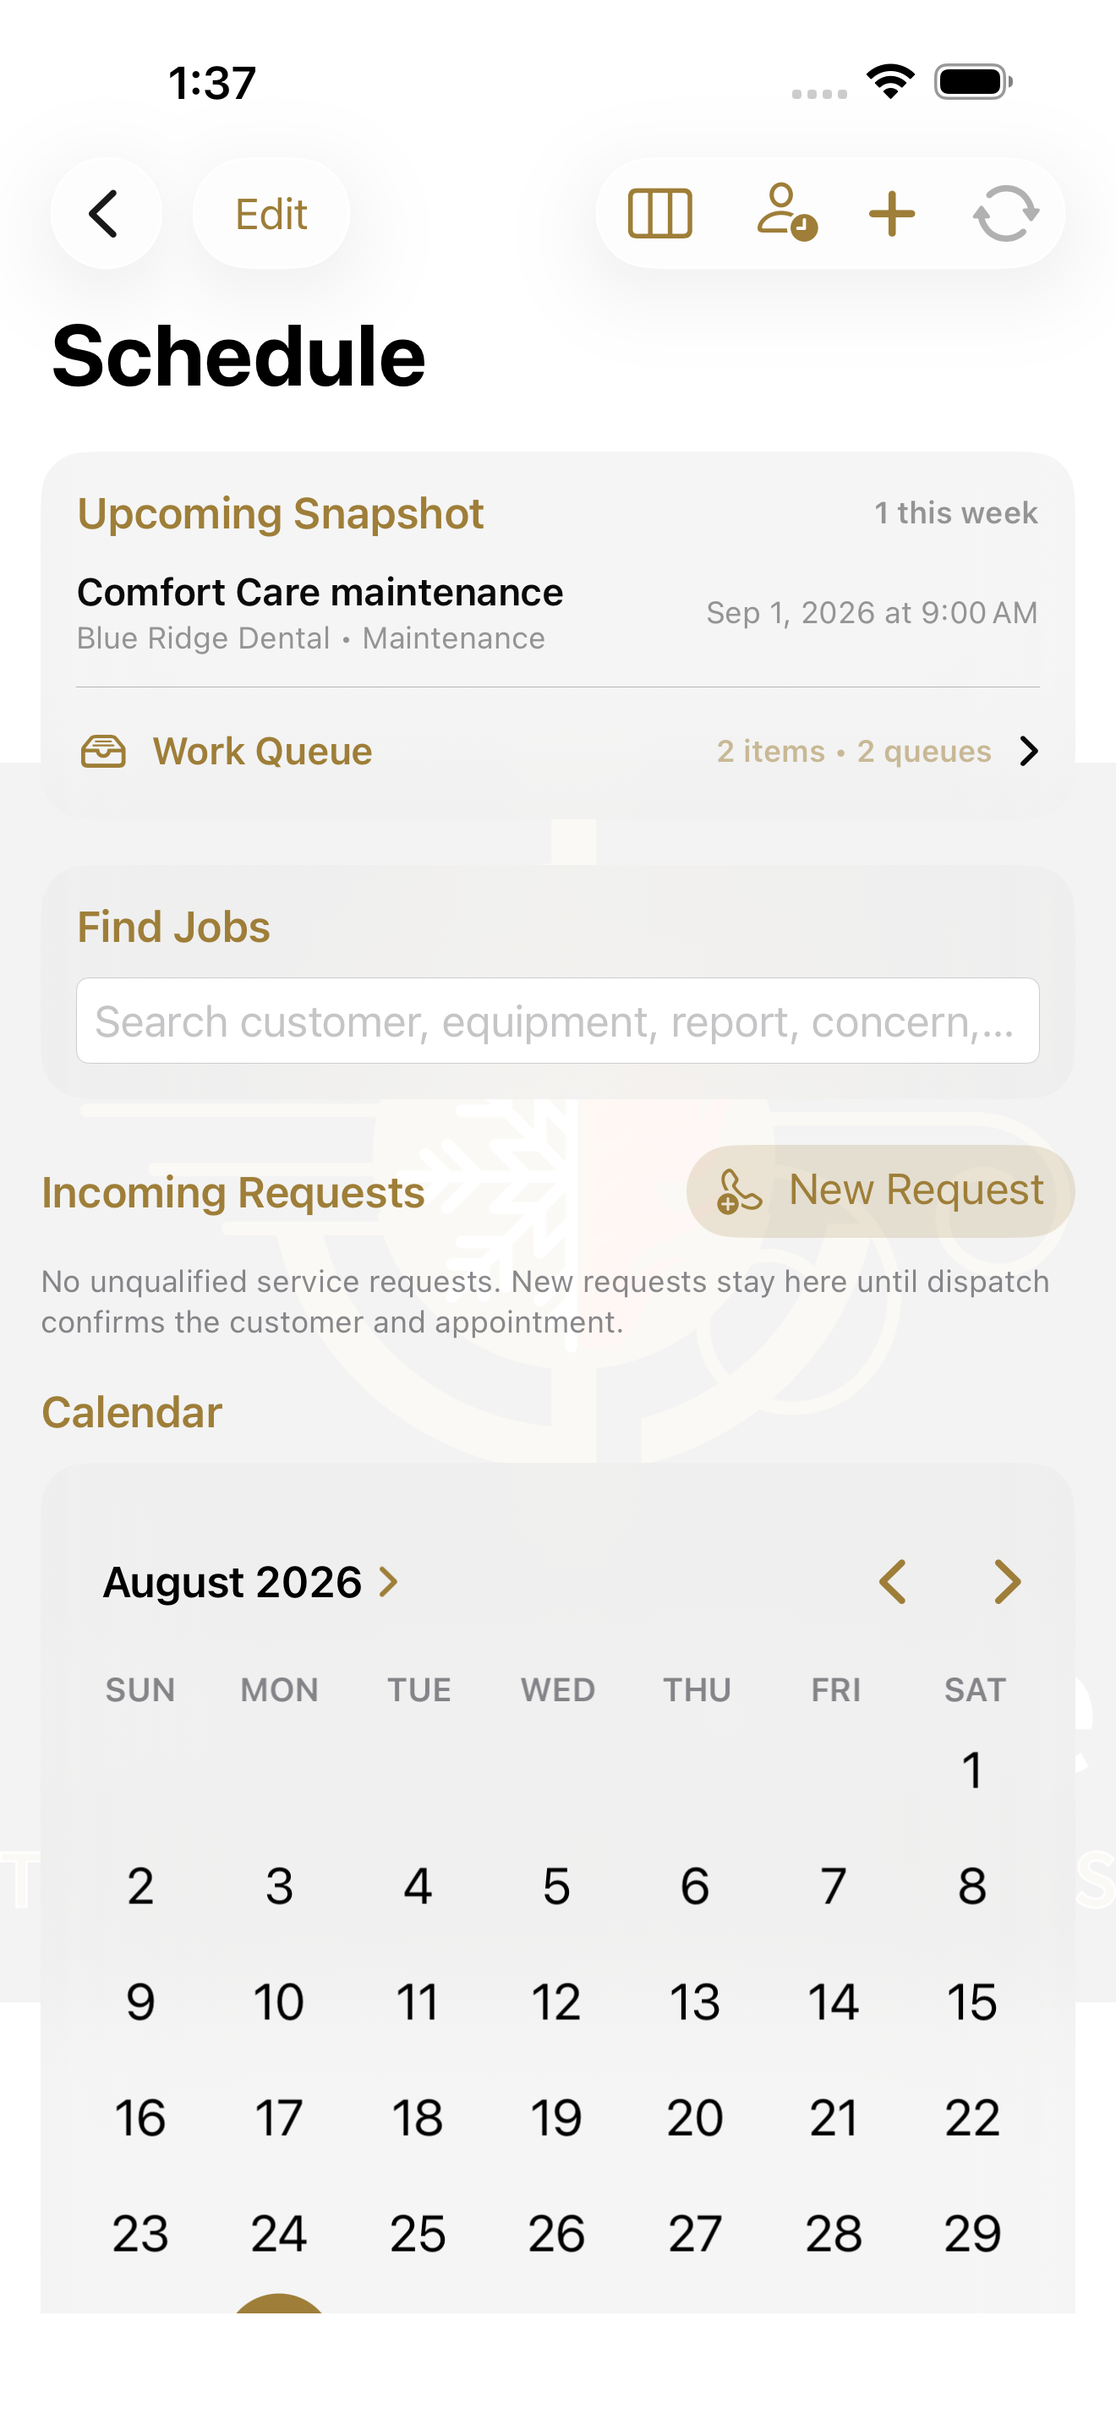
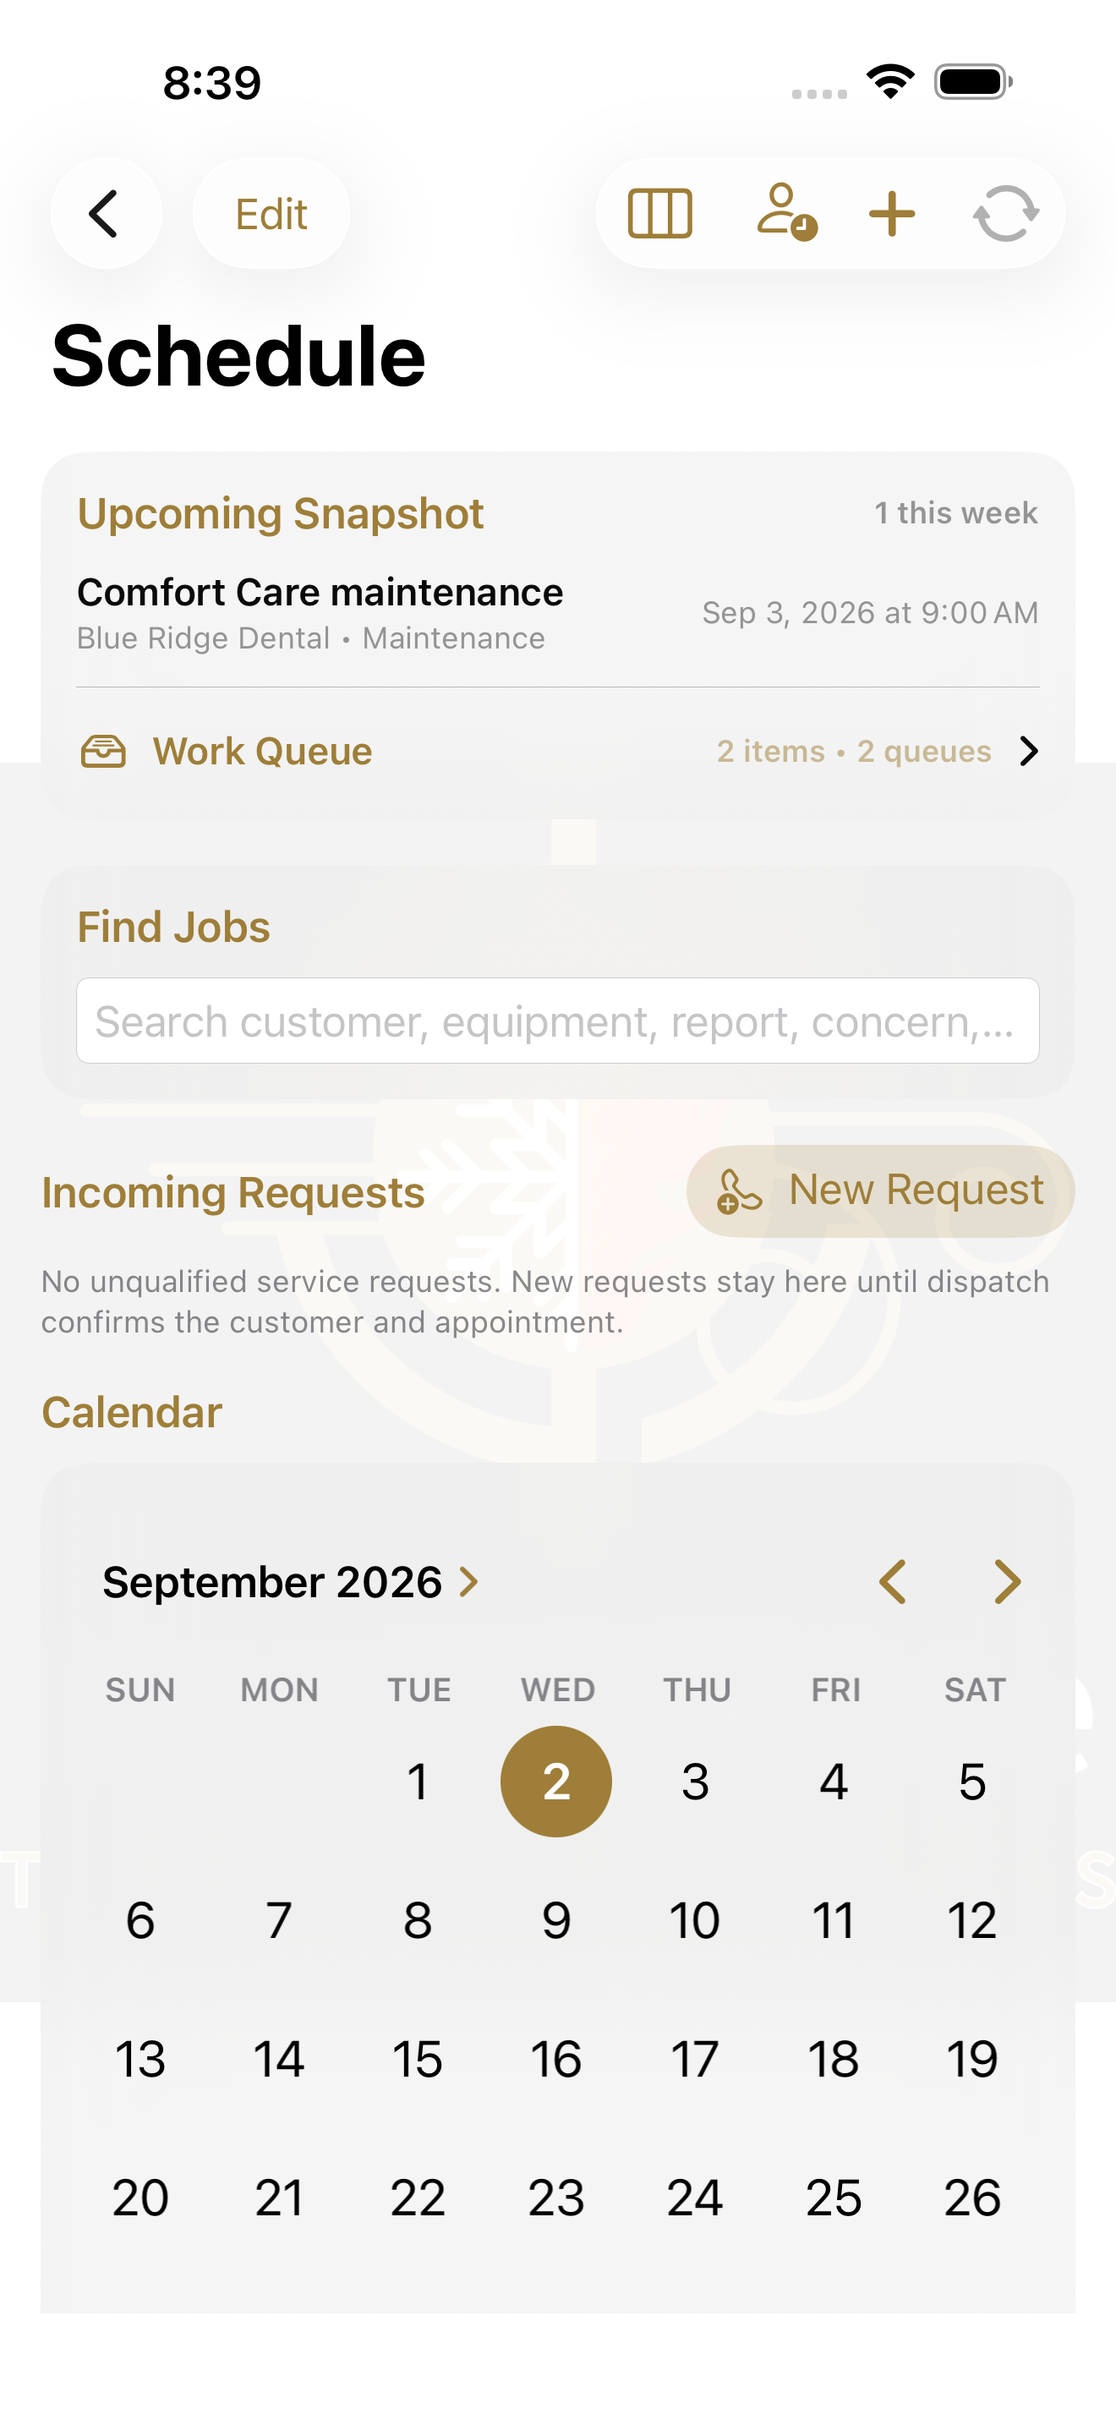
Refresh current App Store screenshots

diff --git a/RELEASE_READINESS.md b/RELEASE_READINESS.md
@@ -4,11 +4,11 @@ Last reviewed: 2026-09-02
 
 ## Current result
 
-Build `1.0 (2026090204)` is the exact-source primary iPad/Mac release candidate at source commit `9e1999eb7d357fb28631511176e7c51778ffc3b4`. The complete sequential iPad UI target now passes **104/104 logical tests** with **107/107 device executions**, zero failures, skips, or expected failures, on the iPad Pro 13-inch (M5) Simulator with iOS 26.5. The Settings action for reusable service, repair, replacement, and maintenance forms is a semantic labeled button, and its UI check waits for real form-manager content before asserting the navigation title. **Add Work Log** and **Create/Review Work Summary** remain above the append-only work history, keeping repeated technician entry reachable as the card grows. The two corrected workflows also pass together **2/2** before the broad run. The complete run now includes the post-job review-consent journey: the review draft is absent when the customer has not allowed marketing email and appears only after an administrator explicitly enables that consent; the test stops before opening Mail or Gmail, sends nothing, and retains an account-identity-free screenshot. The six App Store captures and the review-consent capture were visually inspected from the broad result; their sidebar footers show only the role and no signed-in account email. The four adjacent deterministic review/referral checks also pass **4/4**, covering job eligibility, confirmed communication activity, retained referral qualification, and request-cohort conversion/revenue reporting. Evidence is retained as `/Users/gunnaire/Downloads/GunnAire Ops Releases/2026-09-02/GunnAire Ops 1.0 (2026090204 iPad UI Broad 104 Pass).xcresult`, `/Users/gunnaire/Downloads/GunnAire Ops Releases/2026-09-02/GunnAire Ops 1.0 (2026090204 iPad Navigation Work Log Focused 2).xcresult`, `/Users/gunnaire/Downloads/GunnAire Ops Releases/2026-09-02/GunnAire Ops 1.0 (2026090204 Review Consent UI).xcresult`, and `/Users/gunnaire/Downloads/GunnAire Ops Releases/2026-09-02/GunnAire Ops 1.0 (2026090204 Review Referral Logic 4).xcresult`.
+Build `1.0 (2026090204)` is the exact-source primary iPad/Mac release candidate at source commit `9e1999eb7d357fb28631511176e7c51778ffc3b4`. The complete sequential iPad UI target now passes **104/104 logical tests** with **107/107 device executions**, zero failures, skips, or expected failures, on the iPad Pro 13-inch (M5) Simulator with iOS 26.5. The Settings action for reusable service, repair, replacement, and maintenance forms is a semantic labeled button, and its UI check waits for real form-manager content before asserting the navigation title. **Add Work Log** and **Create/Review Work Summary** remain above the append-only work history, keeping repeated technician entry reachable as the card grows. The two corrected workflows also pass together **2/2** before the broad run. The complete run now includes the post-job review-consent journey: the review draft is absent when the customer has not allowed marketing email and appears only after an administrator explicitly enables that consent; the test stops before opening Mail or Gmail, sends nothing, and retains an account-identity-free screenshot. The six iPad App Store captures and the review-consent capture were visually inspected from the broad result; a current iPhone 17 Pro Max capture workflow also passes **1/1**. All twelve checked-in App Store images passed privacy, content, dimension, opacity, and unobscured-layout review; none exposes the signed-in account email or sidebar identity. The four adjacent deterministic review/referral checks also pass **4/4**, covering job eligibility, confirmed communication activity, retained referral qualification, and request-cohort conversion/revenue reporting. Evidence is retained as `/Users/gunnaire/Downloads/GunnAire Ops Releases/2026-09-02/GunnAire Ops 1.0 (2026090204 iPad UI Broad 104 Pass).xcresult`, `/Users/gunnaire/Downloads/GunnAire Ops Releases/2026-09-02/GunnAire Ops 1.0 (2026090204 iPhone App Store Screenshots).xcresult`, `/Users/gunnaire/Downloads/GunnAire Ops Releases/2026-09-02/GunnAire Ops 1.0 (2026090204 iPad Navigation Work Log Focused 2).xcresult`, `/Users/gunnaire/Downloads/GunnAire Ops Releases/2026-09-02/GunnAire Ops 1.0 (2026090204 Review Consent UI).xcresult`, and `/Users/gunnaire/Downloads/GunnAire Ops Releases/2026-09-02/GunnAire Ops 1.0 (2026090204 Review Referral Logic 4).xcresult`.
 
[1 lines of base64/hex data omitted]
 
[2 lines of base64/hex data omitted]
 
 This remains a development-signed candidate, not a production release. Build `2026090204` is not installed on a physical iPad or iPhone; the paired iPad is registered but unavailable; Apple Distribution and separate Mac distribution credentials are unavailable; Production CloudKit is still v15 while the reviewed Development export is v22; production remains backend `.16`; backend source `.17` is not deployed; and signed QBO, Google, APNs, payment, financing, supplier, role, accessibility, Handoff, and conflict acceptance remain external gates.
 
@@ -362,9 +362,11 @@ explicit owner authorization through 2026-08-27:
   content, dimension, and no-alpha visual QA. They have not been uploaded to
   App Store Connect.
 
-- On 2026-08-31, the six current iPad and six current iPhone assets were
-  regenerated from focused current-source screenshot fixtures that each passed
-  1/1 on iOS 26.5. The capture assertion rejects an exposed signed-in sidebar
+- On 2026-09-02, the six current iPad and six current iPhone assets were
+  regenerated from current-source screenshot fixtures on iOS 26.5. The iPad
+  captures came from the complete **104/104 logical-test, 107/107-execution**
+  result, and the iPhone capture workflow independently passed **1/1**. The
+  capture assertion rejects an exposed signed-in sidebar
   identity, verifies compact Edit/QR/More equipment actions with lifecycle and
   delete actions hidden in the closed menu, and waits for any SpringBoard
   notification banner to clear before attaching an image. Normal authenticated

diff --git a/COMPLETION_EVIDENCE_MATRIX.md b/COMPLETION_EVIDENCE_MATRIX.md
@@ -8,7 +8,7 @@ and covered by the listed source/tests or build. **External gate** means the
 code cannot prove production readiness because it requires an account owner,
 provider contract, signed device, or deployed service.
 
[2 lines of base64/hex data omitted]
 
 Current Apple portal evidence: Safari is authenticated to the account team and the explicit `com.gunnaire.businesssuite` App ID shows Associated Domains, iCloud with CloudKit, Push Notifications, and Sign in with Apple enabled; Sign in with Apple is the primary App ID. Maps, Mail, and ordinary Messages compose/share behavior do not require enabling their unrelated specialized App ID services. No Apple setting was changed, and Chrome was not used.
 
@@ -241,7 +241,7 @@ the Apple notification route rejects malformed input with HTTP 400 and the QBO c
 
 | Check | Evidence | Result |
 | --- | --- | --- |
-| Current build `2026090204` complete iPad UI regression | `/Users/gunnaire/Downloads/GunnAire Ops Releases/2026-09-02/GunnAire Ops 1.0 (2026090204 iPad UI Broad 104 Pass).xcresult`. | The complete sequential target passes **104/104 logical tests** with **107/107 device executions**, zero failures, skips, or expected failures, on iPad Pro 13-inch (M5), iOS 26.5. This supersedes the 103-logical-test broad result by incorporating the consent-gated post-job review journey. The six App Store captures and the review-consent capture were exported and visually inspected; each omits the signed-in account identity from the sidebar footer, and the review flow stops before opening Mail/Gmail or sending a message. No browser, provider call, customer message, production data, or account setting was used or changed. |
+| Current build `2026090204` complete iPad UI regression and App Store captures | `/Users/gunnaire/Downloads/GunnAire Ops Releases/2026-09-02/GunnAire Ops 1.0 (2026090204 iPad UI Broad 104 Pass).xcresult` and `/Users/gunnaire/Downloads/GunnAire Ops Releases/2026-09-02/GunnAire Ops 1.0 (2026090204 iPhone App Store Screenshots).xcresult`. | The complete sequential target passes **104/104 logical tests** with **107/107 device executions**, zero failures, skips, or expected failures, on iPad Pro 13-inch (M5), iOS 26.5. This supersedes the 103-logical-test broad result by incorporating the consent-gated post-job review journey. Its six App Store captures and the review-consent capture were exported and visually inspected; the current iPhone 17 Pro Max, iOS 26.5 capture workflow independently passes **1/1**. All twelve checked-in App Store images omit the signed-in account identity and pass content, dimension, opacity, and unobscured-layout review. The review flow stops before opening Mail/Gmail or sending a message. No browser, provider call, customer message, production data, or account setting was used or changed. |
[1 lines of base64/hex data omitted]
 | Current-source iPad/Mac-to-iPhone field-payment Handoff | `/private/tmp/GunnAireOps-mac-handoff-final-ipad-2026083002.xcresult`, `/private/tmp/GunnAireOps-mac-handoff-final-iphone-ui-2026083001.xcresult`, `/private/tmp/GunnAireOps-mac-handoff-final-mac-build-2026083003.xcresult`, and preceding Mac baseline `/private/tmp/GunnAireOps-mac-handoff-final-mac-2026083001.xcresult`. | Exact current iPad logic passes **604/604**; the exact current iPhone prompt, authorized invoice, QBO identifier, and verified Intuit app-link journey passes **1/1**; exact current Mac app/test products build-for-testing with zero recorded issues; and the immediately preceding Mac source passed **604/604**. The handoff contains only the invoice UUID, replaces/invalidates prior state, expires after 30 minutes, exposes explicit cancellation, and reauthorizes on receipt. Two current Mac unit launches hit the local Xcode 26.6 `testmanagerd` timeout and two Catalyst UI runs stalled, so a Mac restart/current-source rerun and signed physical Mac/iPhone acceptance remain required. |
 | QBO customer-invoice idempotency and complete-line payment-preparation snapshot | `/private/tmp/GunnAireOps-invoice-lineage-ipad-2026083003.xcresult` and `/private/tmp/GunnAireOps-invoice-lineage-mac-2026083003.xcresult`; local backend regression on 2026-08-30. | The exact invoice-publication snapshot passes **604/604** on iPad and Mac Catalyst with zero failures or skips; backend passes **69/69**. Coverage proves the bounded stable invoice marker, deterministic 47-character create request ID, unique remote recovery, duplicate-marker rejection, immutable catalog line quantities/prices/tax/equipment context, and fail-closed mapping/review behavior. Job Billing, Admin retry, and payment preparation all reconcile before create; payment preparation no longer posts one generic fallback line. No live QBO write, payment, backend/schema change, or production-data mutation occurred. |

diff --git a/CAPABILITY_AUDIT.md b/CAPABILITY_AUDIT.md
@@ -2,7 +2,7 @@
 
 This audit compares GunnAire Ops with the practical operating capabilities described by ten leading field-service suites: ServiceTitan, Housecall Pro, FieldPulse, FieldEdge, Jobber, Workiz, Service Fusion, Simpro, ServiceM8, and ServiceTrade. BuildOps was also consulted for commercial-HVAC workflow coverage. It distinguishes implemented workflows from vendor- or provider-dependent capabilities that cannot be represented honestly as live until the business has credentials, contracts, and production approval.
 
[2 lines of base64/hex data omitted]
 
 Safari-only portal inspection confirms the explicit `com.gunnaire.businesssuite` identifier is enabled for Associated Domains, iCloud/CloudKit, Push Notifications, and primary Sign in with Apple. Maps, Mail, and ordinary Messages sharing are already available through the system frameworks used by the app and do not justify enabling Apple’s separate specialized App ID services. No Apple account setting was changed and Chrome was not used.
 
@@ -154,7 +154,7 @@ Current differentiators and constraints are explicit:
 - Customer email is now a typed, durable lifecycle rather than an optimistic history note. General messages, estimate follow-ups, payment reminders, appointment confirmations, en-route/arrival notices, work-in-progress updates, service follow-ups, maintenance visit/renewal reminders, post-job review requests, receipts, and customer documents retain workflow/template version, authenticated actor, consent snapshot, customer/job/estimate/invoice/agreement links, attachments, sent/failed/suppressed state, safe provider detail, and confirmed-delivery time. Gmail preflight rejects missing or mismatched context and consent violations; only a confirmed provider response applies the workflow's operational effect. Cancelling a draft, using the unobservable `mailto:` fallback, a provider error, a paid invoice, or mismatched record context makes no operational change. Failed backend evidence remains locally visible and retryable without resending the customer email. Maintenance reminder drafts no longer activate an agreement merely because a draft was opened.
 - Opted-in customers can receive staff-reviewed operational appointment texts through Apple's native Messages composer on a capable iPhone or iPad. The draft includes appointment timing and service type but excludes the address and financial details. Cancellation records nothing, failed sends retain failed evidence, and only the composer's `sent` result records sent evidence. Phone, consent, job/workflow, and the final recipient list are rechecked before any job-history effect; changed-recipient sends are audited without applying workflow state. This is not automated SMS and the app does not claim carrier delivery confirmation.
 
-- App Store screenshot fixtures apply a narrowly scoped privacy policy: the signed-in sidebar identity is omitted only while deterministic store captures run. The capture helper checks for that identity before attaching each image, while a separate authenticated-admin UI assertion proves the normal app still presents account context. On 2026-08-31, the six 13-inch iPad and six 6.9-inch iPhone images were regenerated from focused current-source workflows that each passed 1/1. Customer Systems asserts the compact Edit, QR, and More actions while lifecycle/delete actions remain hidden in the closed menu, and the capture helper waits for a SpringBoard notification banner to clear rather than retaining an obscured image. The deterministic payment fixture also suppresses its automatic shared-server refreshes so capture never contacts the live backend or exposes a missing-session error; normal Payments behavior is unchanged. All twelve retained PNGs were visually inspected and mechanically verified for the required dimensions and opaque RGB format; the images reflect the collapsed Schedule Work Queue and use fictional business data.
+- App Store screenshot fixtures apply a narrowly scoped privacy policy: the signed-in sidebar identity is omitted only while deterministic store captures run. The capture helper checks for that identity before attaching each image, while a separate authenticated-admin UI assertion proves the normal app still presents account context. On 2026-09-02, the six 13-inch iPad images were regenerated from the complete 104-logical-test result and the six 6.9-inch iPhone images from a focused current-source workflow that passed 1/1. Customer Systems asserts the compact Edit, QR, and More actions while lifecycle/delete actions remain hidden in the closed menu, and the capture helper waits for a SpringBoard notification banner to clear rather than retaining an obscured image. The deterministic payment fixture also suppresses its automatic shared-server refreshes so capture never contacts the live backend or exposes a missing-session error; normal Payments behavior is unchanged. All twelve retained PNGs were visually inspected and mechanically verified for the required dimensions and opaque RGB format; the images reflect the current interface, omit the signed-in account email and sidebar identity, and use fictional business data.
 
 ## Implemented operational suite
 

diff --git a/AppStoreAssets/README.md b/AppStoreAssets/README.md
@@ -65,11 +65,19 @@ The order is intentional:
 
 ## Current-source verification
 
-Both focused capture workflows passed on 2026-08-31: 1/1 on an iPad Pro
-13-inch (M5) simulator and 1/1 on an iPhone 17 Pro Max simulator, each running
-iOS 26.5. The twelve exported attachments were mapped by their manifests,
-visually inspected, and mechanically verified for the expected dimensions and
-an opaque RGB pixel format before replacing this retained set.
+The current iPad captures were exported from the complete sequential UI result
+that passed 104/104 logical tests with 107/107 device executions on 2026-09-02
+using an iPad Pro 13-inch (M5) simulator with iOS 26.5. The current iPhone
+capture workflow passed 1/1 the same day on an iPhone 17 Pro Max simulator with
+iOS 26.5. Evidence is retained at
+`/Users/gunnaire/Downloads/GunnAire Ops Releases/2026-09-02/GunnAire Ops 1.0 (2026090204 iPad UI Broad 104 Pass).xcresult`
+and
+`/Users/gunnaire/Downloads/GunnAire Ops Releases/2026-09-02/GunnAire Ops 1.0 (2026090204 iPhone App Store Screenshots).xcresult`.
+The twelve exported attachments were mapped by their manifests, visually
+inspected, and mechanically verified for the expected dimensions and an opaque
+RGB pixel format before replacing this retained set. None exposes the signed-in
+account email or sidebar identity, and none contains a keyboard, alert, spinner,
+or notification banner.
 
 The capture contract verifies that the deterministic fixtures never expose the
 signed-in sidebar identity. Customer Systems must show the compact Edit, QR,
